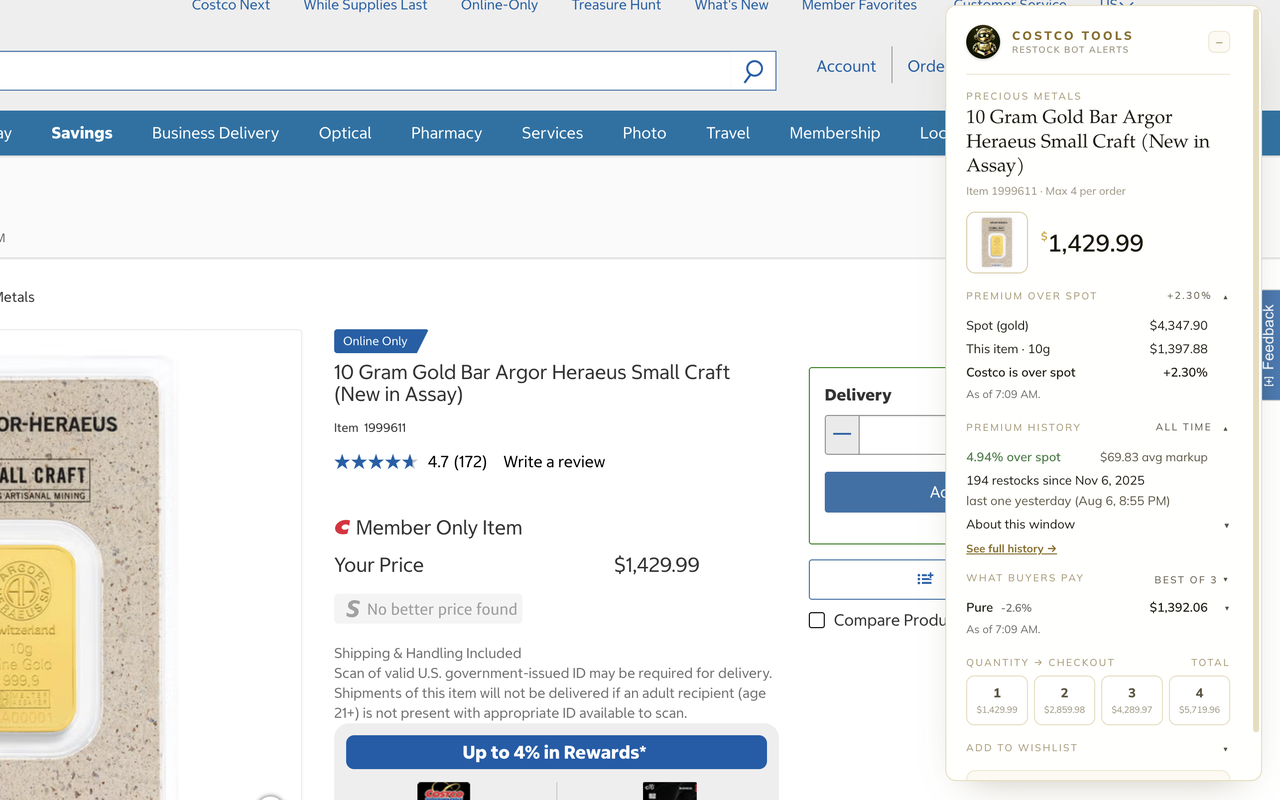
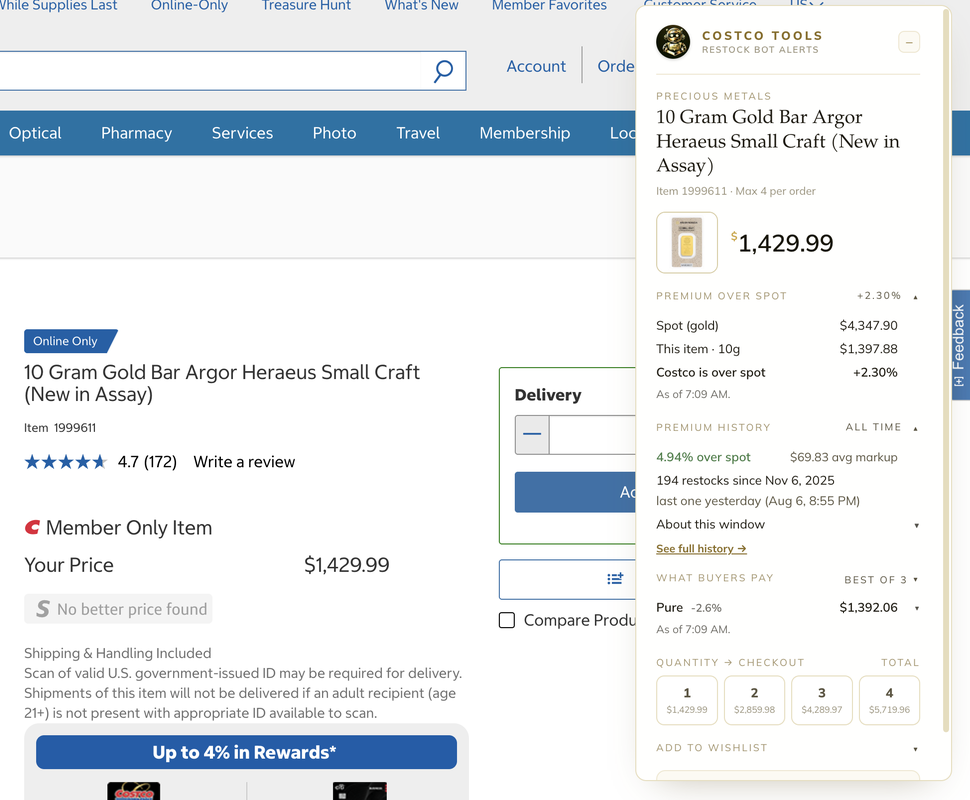
Extension page: tighter hero and export-dialog crops
Hero: crop out the half-visible bar photo so Costco's title, price
and the panel carry the frame. Export dialog: crop to the dashboard
image's 1.5 ratio so the Own row's two images render the same width,
with the Extract Orders dialog much larger. The original wide hero
survives as og-hero.png for social share cards.

diff --git a/extension/index.html b/extension/index.html
@@ -11,7 +11,7 @@
 <meta property="og:type" content="website">
 <meta property="og:url" content="https://restockbotalerts.com/extension/">
 <meta property="og:site_name" content="Restock Bot Alerts">
-<meta property="og:image" content="https://restockbotalerts.com/extension/assets/ext/01-market-data-hero.png">
+<meta property="og:image" content="https://restockbotalerts.com/extension/assets/ext/og-hero.png">
 <meta name="twitter:card" content="summary_large_image">
 <script type="application/ld+json">
 {
@@ -23,7 +23,7 @@
       "applicationCategory": "BrowserApplication",
       "operatingSystem": "Chrome, Firefox",
       "url": "https://restockbotalerts.com/extension/",
-      "image": "https://restockbotalerts.com/extension/assets/ext/01-market-data-hero.png",
+      "image": "https://restockbotalerts.com/extension/assets/ext/og-hero.png",
       "offers": {
         "@type": "Offer",
         "url": "https://restockbotalerts.com/#pricing"
